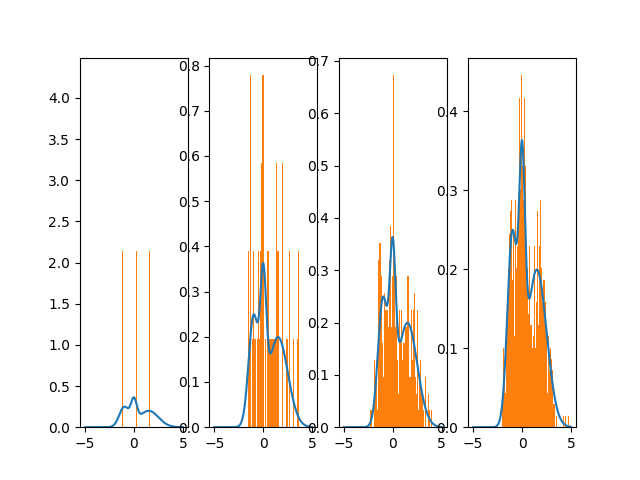
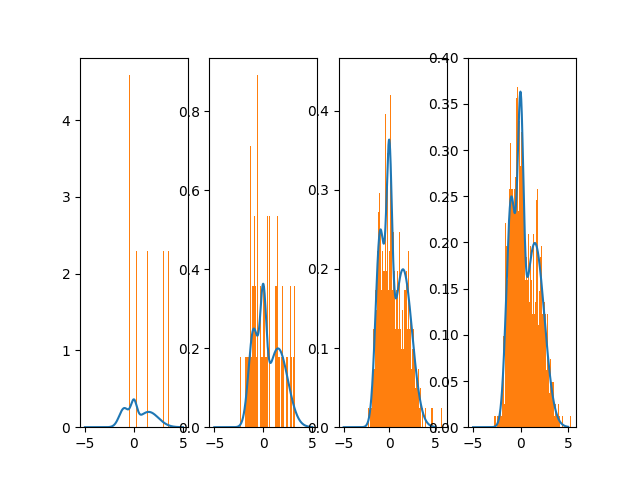
..

diff --git a/00_introduction/template1.py b/00_introduction/template1.py
@@ -134,4 +134,4 @@ if __name__ == '__main__':
     #print(sample_gaussian_mixture([0.1, 1], [-1, 1], [0.9, 0.1],4))
     #print(sample_gaussian_mixture([0.1, 1, 1.5], [1, -1, 5], [0.1, 0.1, 0.8], 10))
 
-    #plot_mixture_and_samples()
+    plot_mixture_and_samples()
